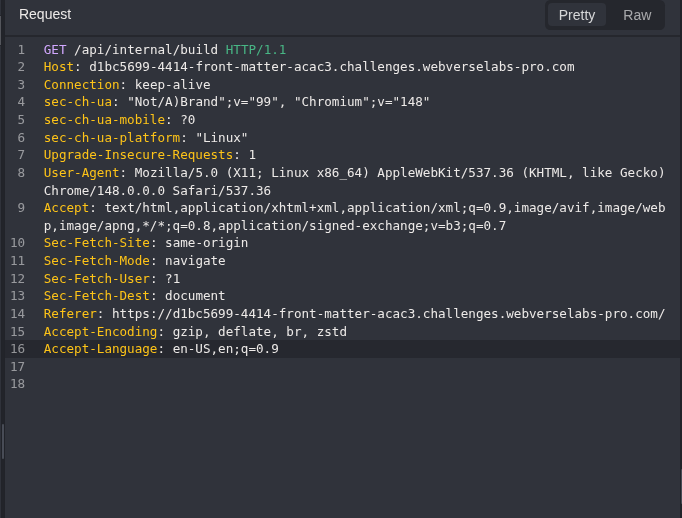
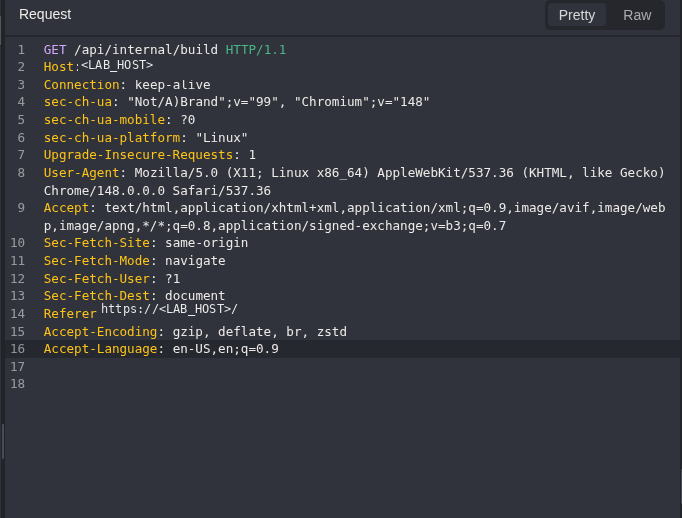
Update Front Matter public reproduction

Changed region(s): [[0.154, 0.5869, 0.9853, 0.6178], [0.1232, 0.0927, 0.8622, 0.1544]]

diff --git a/content/writeups/webverse/front-matter-exposed-internal-build-endpoint/index.md b/content/writeups/webverse/front-matter-exposed-internal-build-endpoint/index.md
@@ -1,7 +1,7 @@
 ---
 title: "WebVerse Front Matter — From Production HTML Comments to an Exposed Internal Build Endpoint"
 date: 2026-07-30T00:00:00+02:00
-lastmod: 2026-07-30T00:00:00+02:00
+lastmod: 2026-08-11T00:00:00+02:00
 draft: false
 author: "Mdk22"
 description: "A Caido- and curl-backed reproduction of production HTML comments exposing a publicly reachable internal build endpoint through GET /api/internal/build."
@@ -53,9 +53,11 @@ methods:
   - "Disclosed Route Follow-Up"
   - "Anonymous Replay"
   - "Independent curl Verification"
+  - "Cross-Client Verification"
+  - "Authoritative Status Check"
 ---
 
-> **Publication note:** This article documents an authorized educational lab reproduction. The current-instance flag is redacted everywhere so that only the `WEBVERSE` prefix remains visible. The complete flag and raw private evidence are excluded from the public manuscript and image bundle.
+> **Publication note:** This article documents an authorized educational lab reproduction. The current-instance flag is represented as `WEBVERSE{REDACTED}`. Dynamic lab-host values use `<LAB_HOST>`, and session material and private raw evidence are excluded from the public manuscript and image bundle.
 
 ## Executive Summary
 
@@ -75,7 +77,7 @@ A controlled Caido Replay request removed session credentials and requested the 
 | Difficulty | Easy |
 | Status | Solved |
 | Date | 30 July 2026 |
-| Target | `https://d1bc5699-4414-front-matter-acac3.challenges.webverselabs-pro.com/` |
+| Target | `https://<LAB_HOST>/` |
 | Primary issue | Exposed internal endpoint |
 | Secondary issue | Sensitive information in production HTML comments |
 
@@ -139,7 +141,7 @@ The investigation began with the public storefront rather than with a route copi
 
 ```http
 GET / HTTP/1.1
-Host: d1bc5699-4414-front-matter-acac3.challenges.webverselabs-pro.com
+Host: <LAB_HOST>
 Accept: text/html,application/xhtml+xml,application/xml;q=0.9,*/*;q=0.8
 ```
 
@@ -216,7 +218,7 @@ The captured Colophon request was sent to Replay and only the path was changed t
 
 ```http
 GET /api/internal/build HTTP/1.1
-Host: d1bc5699-4414-front-matter-acac3.challenges.webverselabs-pro.com
+Host: <LAB_HOST>
 Accept: */*
 
 # No Cookie
@@ -232,16 +234,51 @@ The server returned a successful response to the anonymous request. The plain-te
 
 ![Caido response from the internal build endpoint with the complete flag raster-redacted.](07-caido-internal-build-response-redacted.png)
 
-*Figure 7 — Internal build endpoint response. Caido shows HTTP `200`, `text/plain`, the build ID, status `ok`, and a redacted WebVerse flag; only the `WEBVERSE` prefix remains visible.*
+*Figure 7 — Internal build endpoint response. Caido shows HTTP `200`, `text/plain`, the build ID, status `ok`, and the public-safe `WEBVERSE{REDACTED}` flag representation.*
 
-## 9. Independent curl Verification
+## 9. Reproduction Commands and Payloads
 
-A second client independently requested the same endpoint without session material. This ruled out a Caido display artifact and produced a portable matching response during the same session. The public manuscript retains only the `WEBVERSE` prefix.
+No standalone payload value was used in this reproduction. The security-relevant mutation was the request path, while the decisive access-control control was the removal of session material before requesting the disclosed endpoint. These blocks include only requests and commands actually used and verified during the authorized session.
+
+### R-01 — Storefront baseline
+
+```http
+GET / HTTP/1.1
+Host: <LAB_HOST>
+```
+
+Expected semantic result: HTTP `200` with Front Matter HTML containing a same-origin link to `/colophon`. This establishes the baseline route; it does not itself prove sensitive disclosure.
+
+### R-02 — Colophon source request
+
+```http
+GET /colophon HTTP/1.1
+Host: <LAB_HOST>
+```
+
+Expected semantic result: HTTP `200` with the Colophon HTML and the production comment naming `/api/internal/build`, the intended off-network boundary, and the response-body oracle.
+
+### R-03 — Anonymous internal-endpoint request
+
+```http
+GET /api/internal/build HTTP/1.1
+Host: <LAB_HOST>
+Accept: */*
+
+# No Cookie
+# No Authorization
+# No request body
+```
+
+Expected semantic result: HTTP `200` with `text/plain` content containing a build identifier, status `ok`, and a current-instance flag represented publicly as `WEBVERSE{REDACTED}`. The request proves anonymous external read access; it does not establish whether `GET` also initiated server-side build activity.
+
+### C-01 — Independent `curl` verification
+
+A second client independently requested the same endpoint without session material. This ruled out a Caido display artifact and produced a portable matching response during the same session. The private local output-capture filename is intentionally omitted from the public command.
 
 ```bash
 curl --silent --show-error --include \
-  'https://d1bc5699-4414-front-matter-acac3.challenges.webverselabs-pro.com/api/internal/build' \
-  | tee Front_Matter_EV05_Curl_Internal_Build.txt
+  'https://<LAB_HOST>/api/internal/build'
 ```
 
 ```text
@@ -251,14 +288,14 @@ content-length: 87
 
 build-id: 2026.05.03-a91c4
 status: ok
-flag: WEBVERSE
+flag: WEBVERSE{REDACTED}
 ```
 
-![Raw curl reproduction retaining only the WEBVERSE prefix.](08-curl-internal-build-prefix-only.png)
+![Raw curl reproduction with the temporary host and current-instance flag redacted.](08-curl-internal-build-prefix-only.png)
 
-*Figure 8 — Raw curl reproduction. The terminal independently reproduces the HTTP `200` response. The public screenshot retains only the `WEBVERSE` prefix.*
+*Figure 8 — Raw curl reproduction. The terminal independently reproduces the HTTP `200` response with `<LAB_HOST>` and `WEBVERSE{REDACTED}` used in the public version.*
 
-> **Protocol note:** Caido Replay displayed the transaction as HTTP/1.1, while `curl` negotiated HTTP/2. This is not a conflicting result: both clients reached the same endpoint and received the same status, content type, build metadata, and flag. For publication, the complete flag is withheld and only `WEBVERSE` remains visible.
+> **Protocol note:** Caido Replay displayed the transaction as HTTP/1.1, while `curl` negotiated HTTP/2. This is not a conflicting result: both clients reached the same endpoint and received the same status, content type, build metadata, and flag. For publication, the complete flag is withheld and represented as `WEBVERSE{REDACTED}`.
 
 ## 10. Final Platform Oracle
 
@@ -270,7 +307,7 @@ The full flag recovered from the raw response was submitted to WebVerse. The pla
 
 ```text
 CURRENT-INSTANCE FLAG
-WEBVERSE
+WEBVERSE{REDACTED}
 ```
 
 ### Tool-Specific Evidence Interpretation
@@ -279,7 +316,7 @@ WEBVERSE
 | --- | --- |
 | Caido History | The legitimate storefront-to-Colophon application flow and the exact production HTML disclosure. |
 | Caido Replay | The internal endpoint remained reachable after session credentials were removed. |
-| `curl` | A second client reproduced the matching response during the same session and confirmed the current-instance flag; the public manuscript retains only the `WEBVERSE` prefix. |
+| `curl` | A second client reproduced the matching response during the same session and confirmed the current-instance flag; the public manuscript represents it as `WEBVERSE{REDACTED}`. |
 | WebVerse UI | The recovered flag was accepted and the challenge was marked solved. |
 
 ## 11. Root Cause
@@ -347,7 +384,7 @@ In an equivalent production environment, the impact would depend on the actual d
 
 ```bash
 curl --silent --show-error --include \
-  'https://d1bc5699-4414-front-matter-acac3.challenges.webverselabs-pro.com/api/internal/build'
+  'https://<LAB_HOST>/api/internal/build'
 ```
 
 ## 16. Final Proof
@@ -361,7 +398,7 @@ curl --silent --show-error --include \
 | Content-Type | `text/plain; charset=utf-8` |
 | Build ID | `2026.05.03-a91c4` |
 | Build status | `ok` |
-| Flag | `WEBVERSE` |
+| Flag | `WEBVERSE{REDACTED}` |
 | Platform result | Challenge Solved - Flag accepted |
 
 ## 17. Conclusion
@@ -382,5 +419,5 @@ CONFIRMED - A production HTML comment disclosed an internal route that was exter
 | Caido storefront request/response | Current-host baseline and public `/colophon` route. |
 | Caido Colophon request/response | Production HTML comment and exact internal route disclosure. |
 | Caido Replay request/response | Anonymous access to `/api/internal/build` and sensitive response. |
-| `Front_Matter_EV05_Curl_Internal_Build.txt` | Private raw HTTP response confirming the current-instance flag; only `WEBVERSE` is shown publicly. |
+| Private raw HTTP response | Current-instance flag verification; the public manuscript represents it as `WEBVERSE{REDACTED}`. |
 | `Front_Matter.png` | WebVerse solved-state confirmation. |
